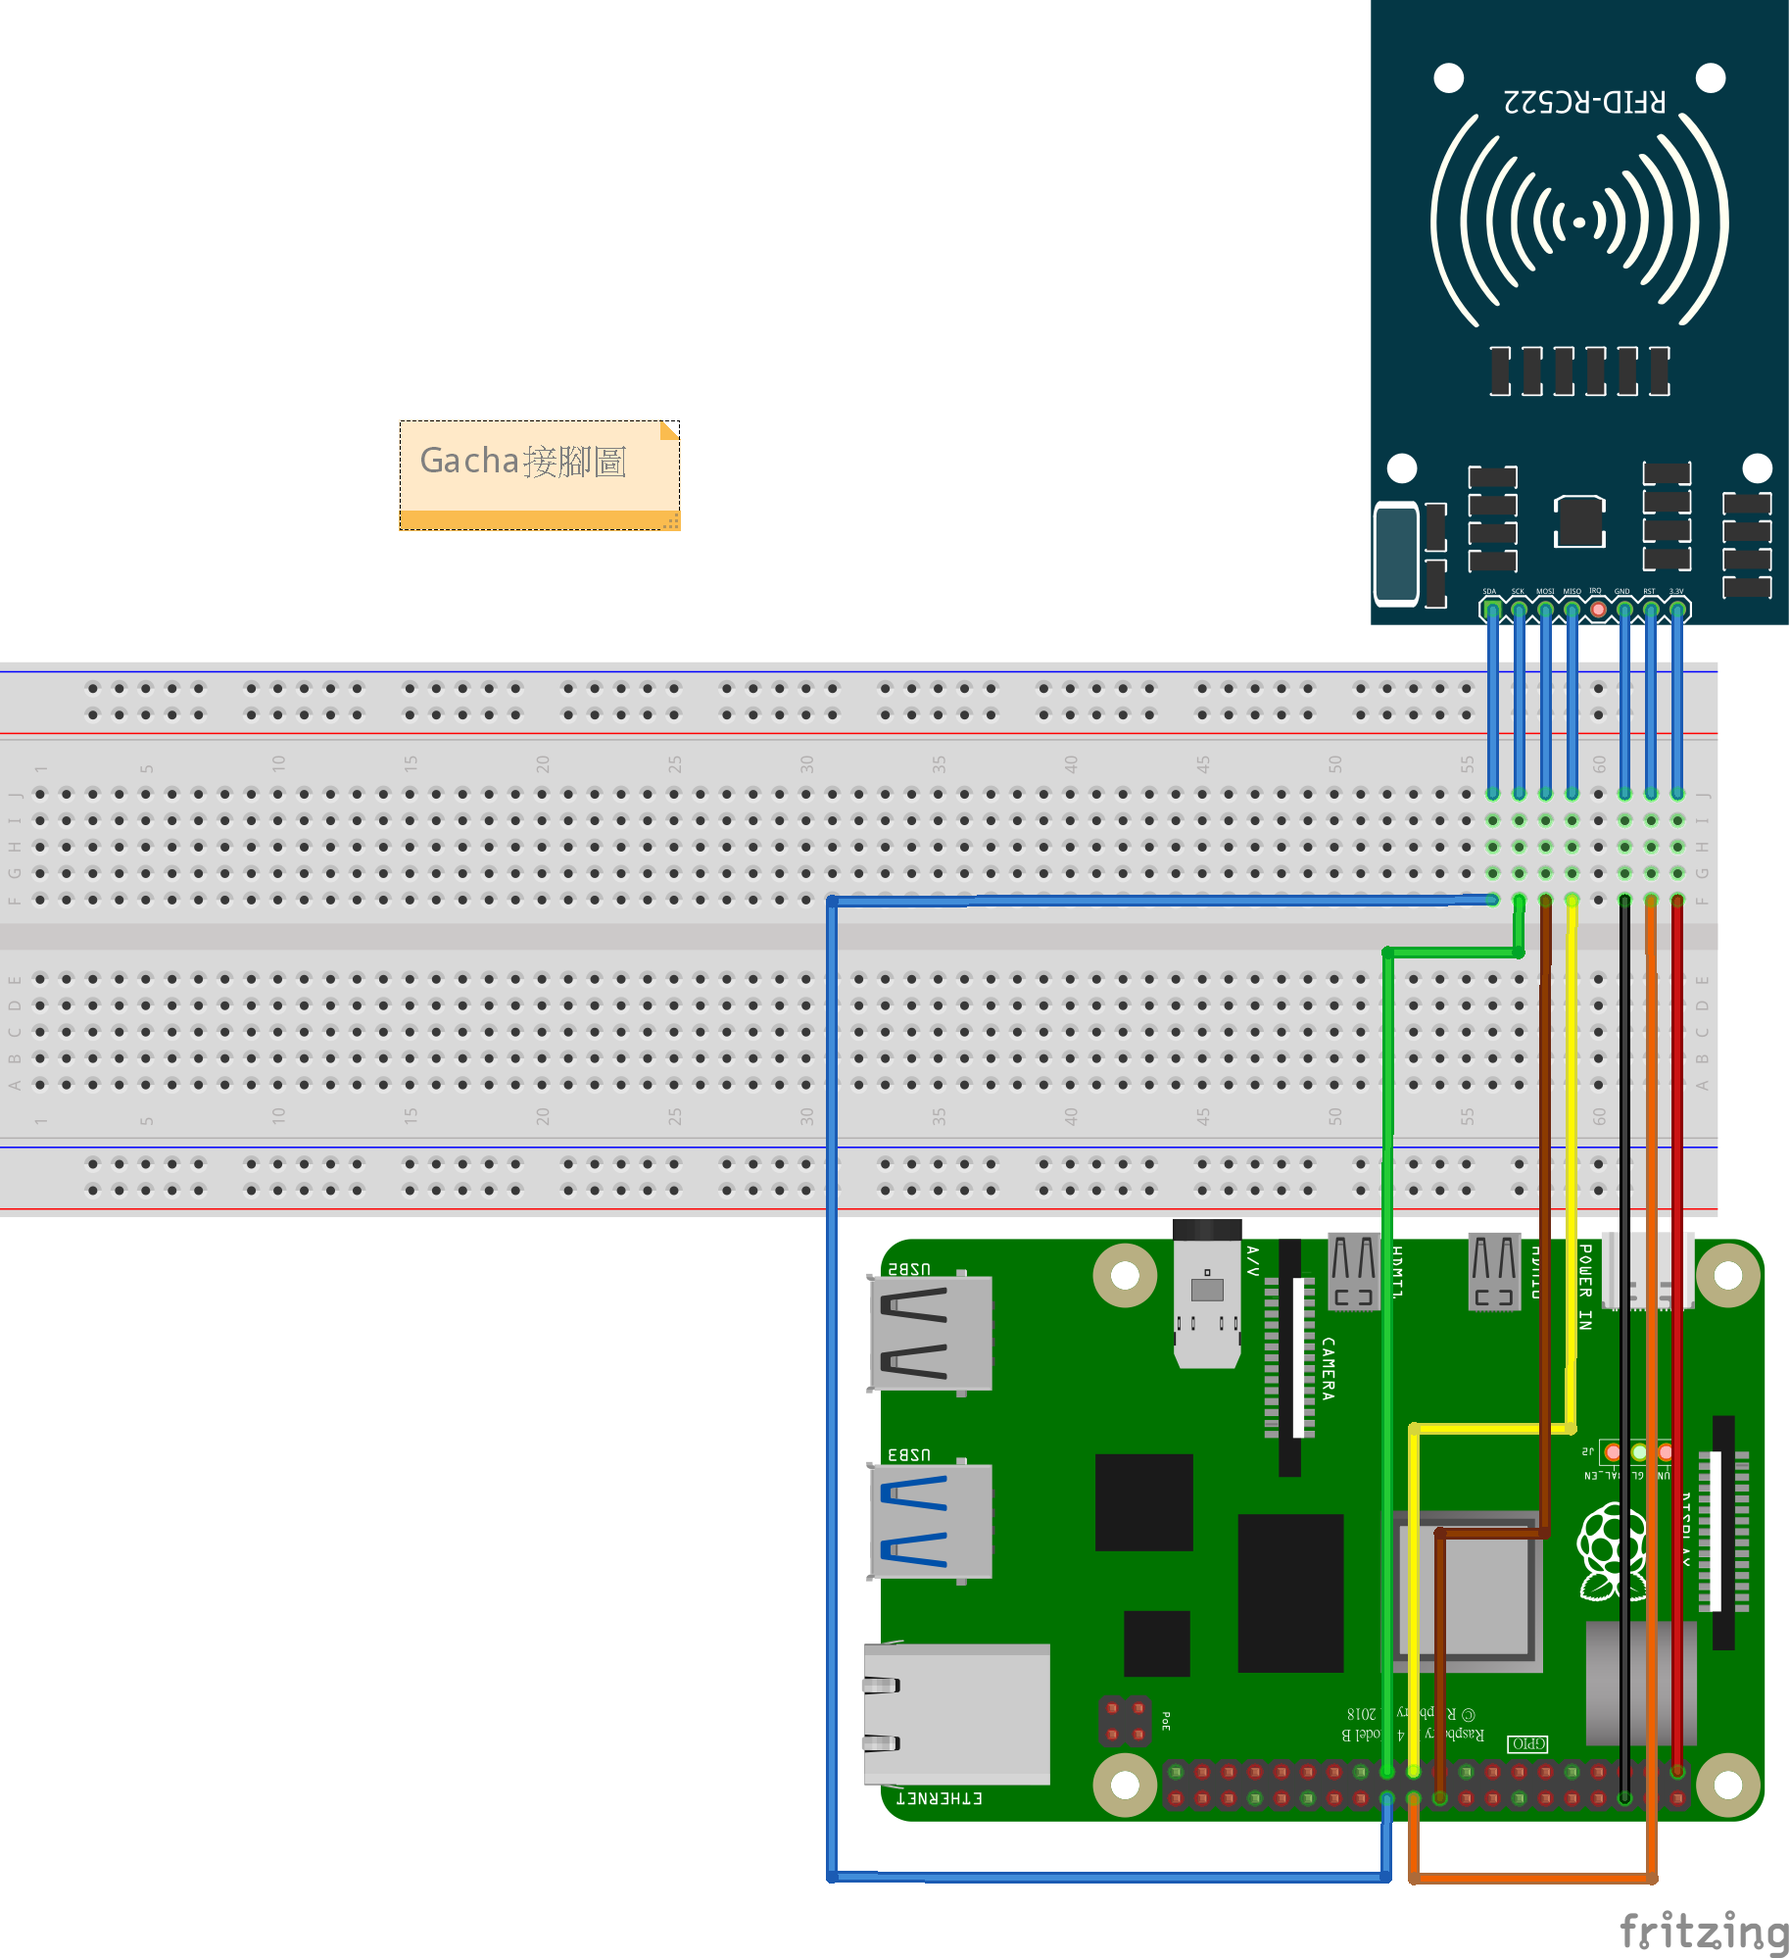
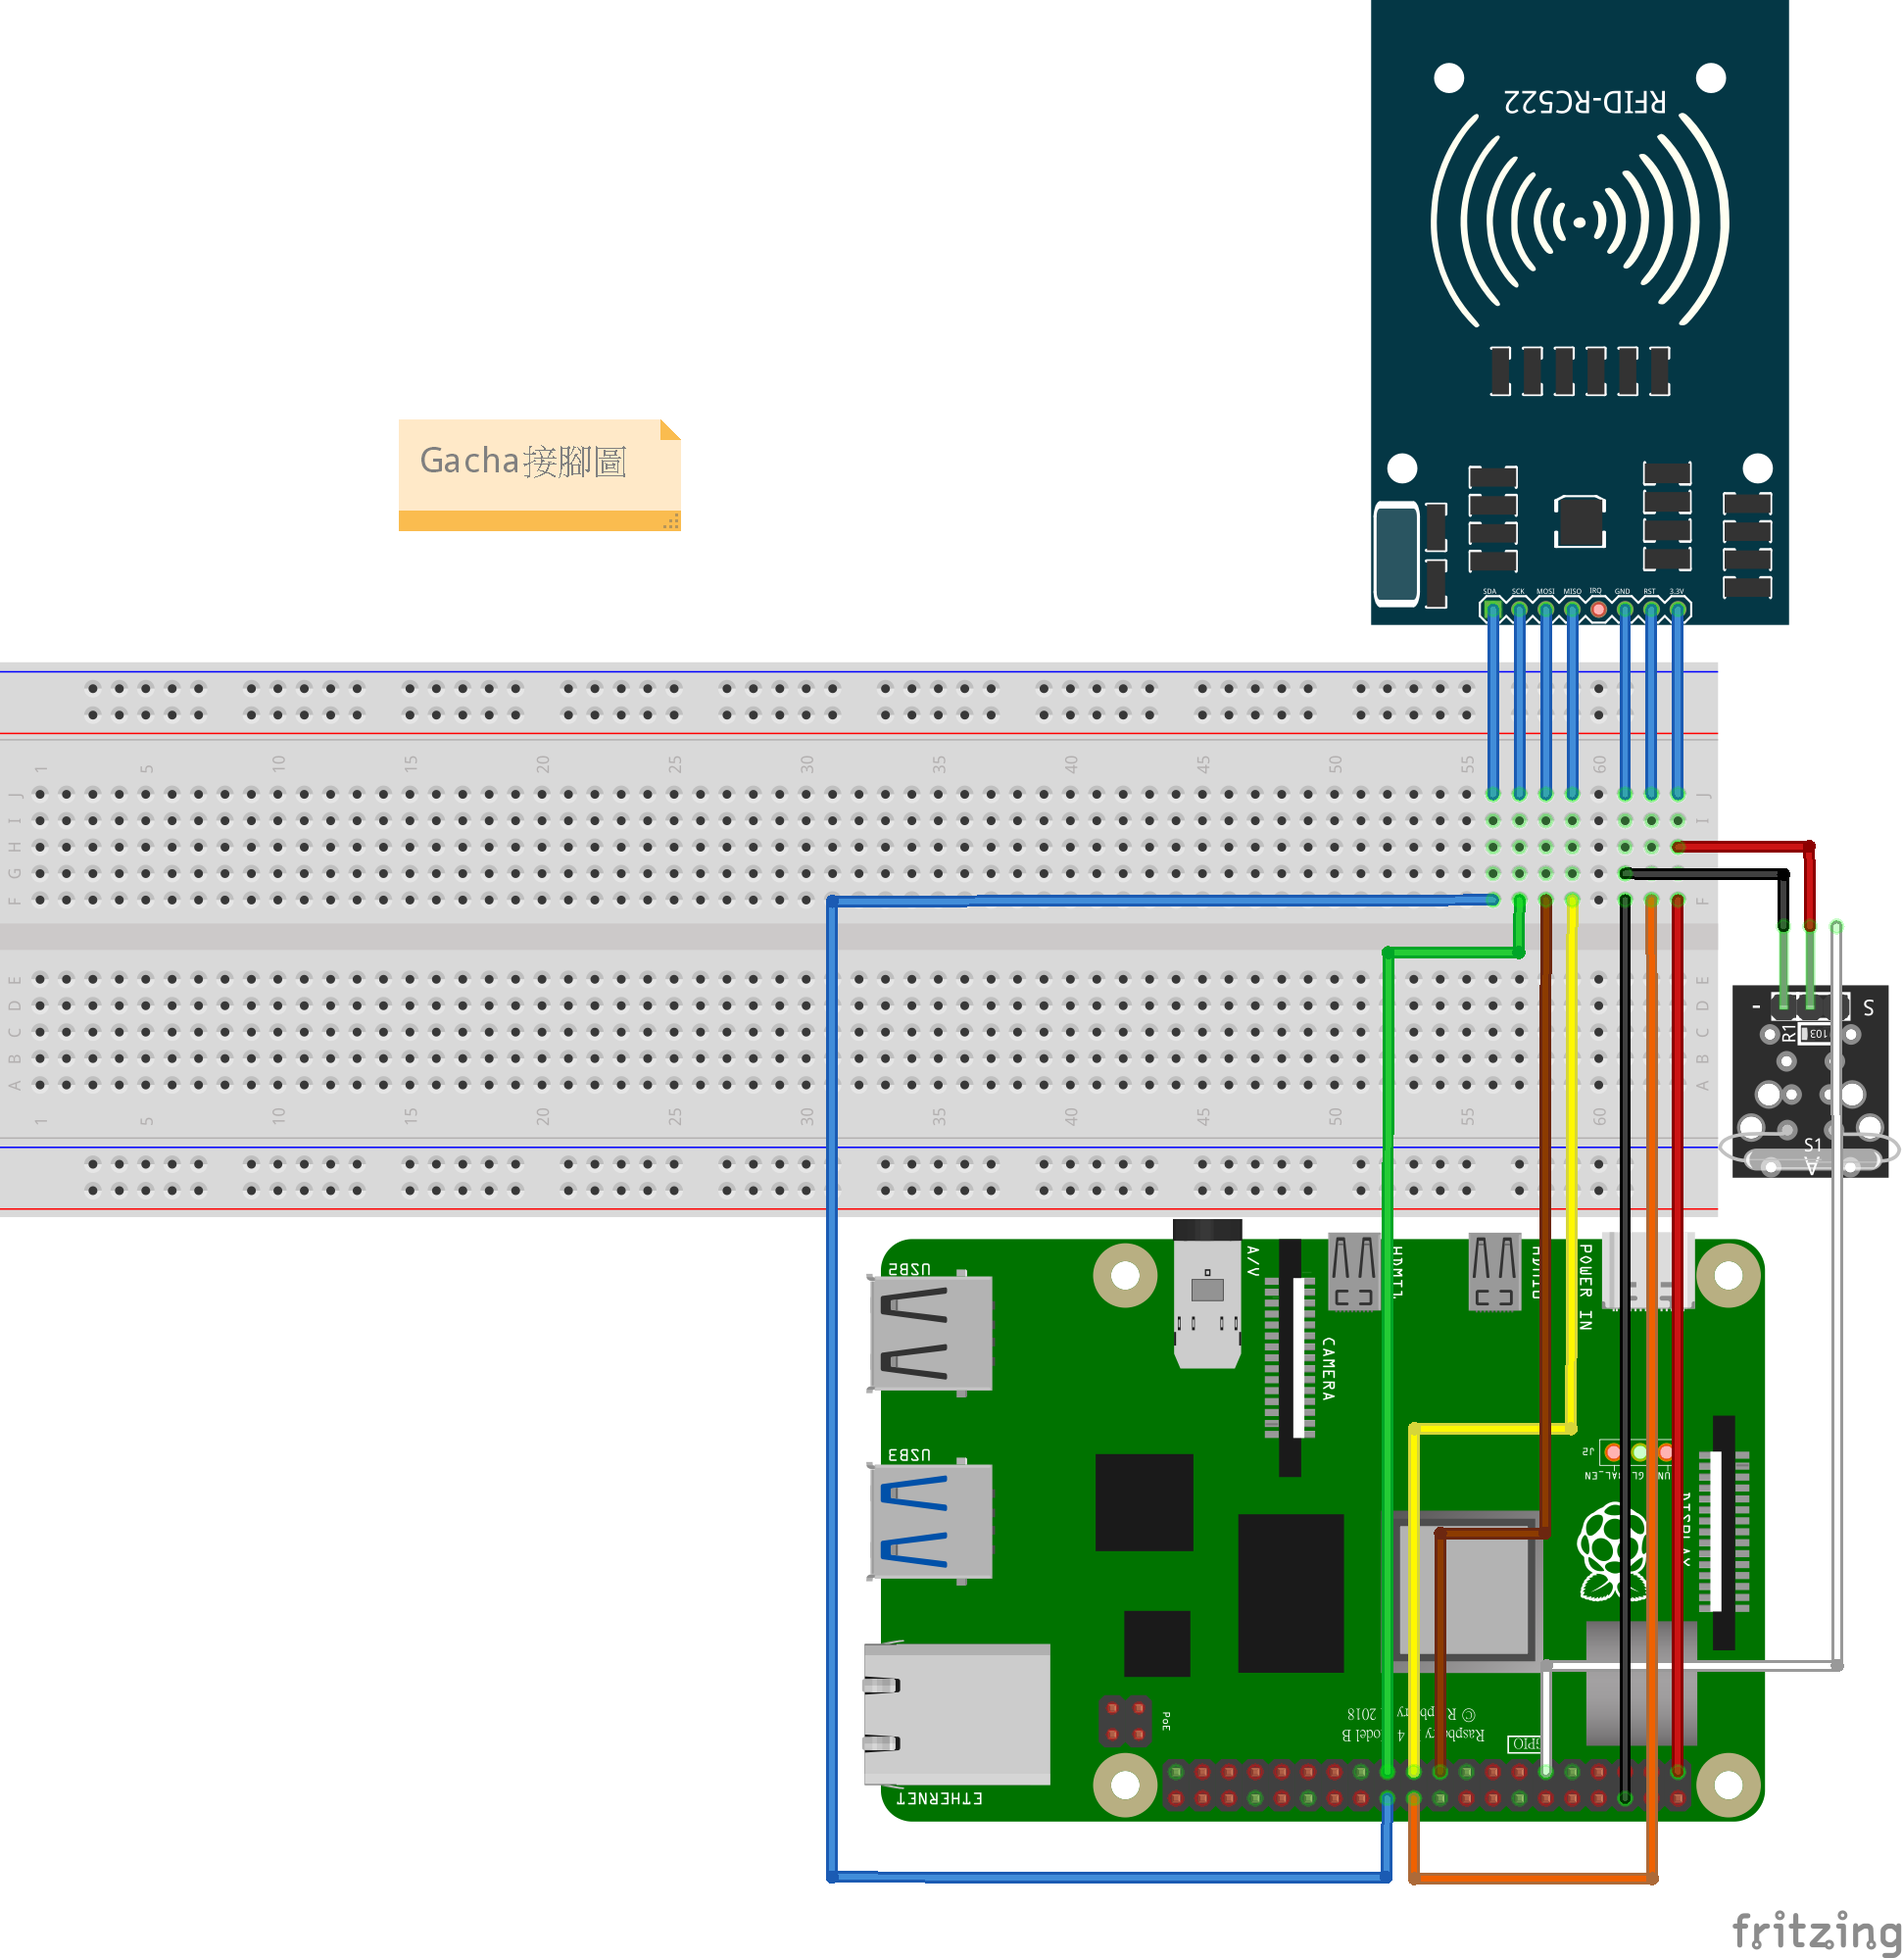
merge

diff --git a/README.md b/README.md
@@ -1,2 +1,5 @@
 # Gacha
 改裝紙箱扭蛋機，用RPi和磁簧開關模組，做出能偵測扭蛋掉落並撥放動畫的扭蛋機。
+
+## 計畫
+將磁鐵裝在轉軸上，磁簧開關偵測到轉動轉軸時重複撥放【正在轉動】動畫，直到扭蛋沿著軌道滾到出口，RFID_RC522 放在出口偵測扭蛋中的 NFC 貼紙，播放對應中獎動畫。
